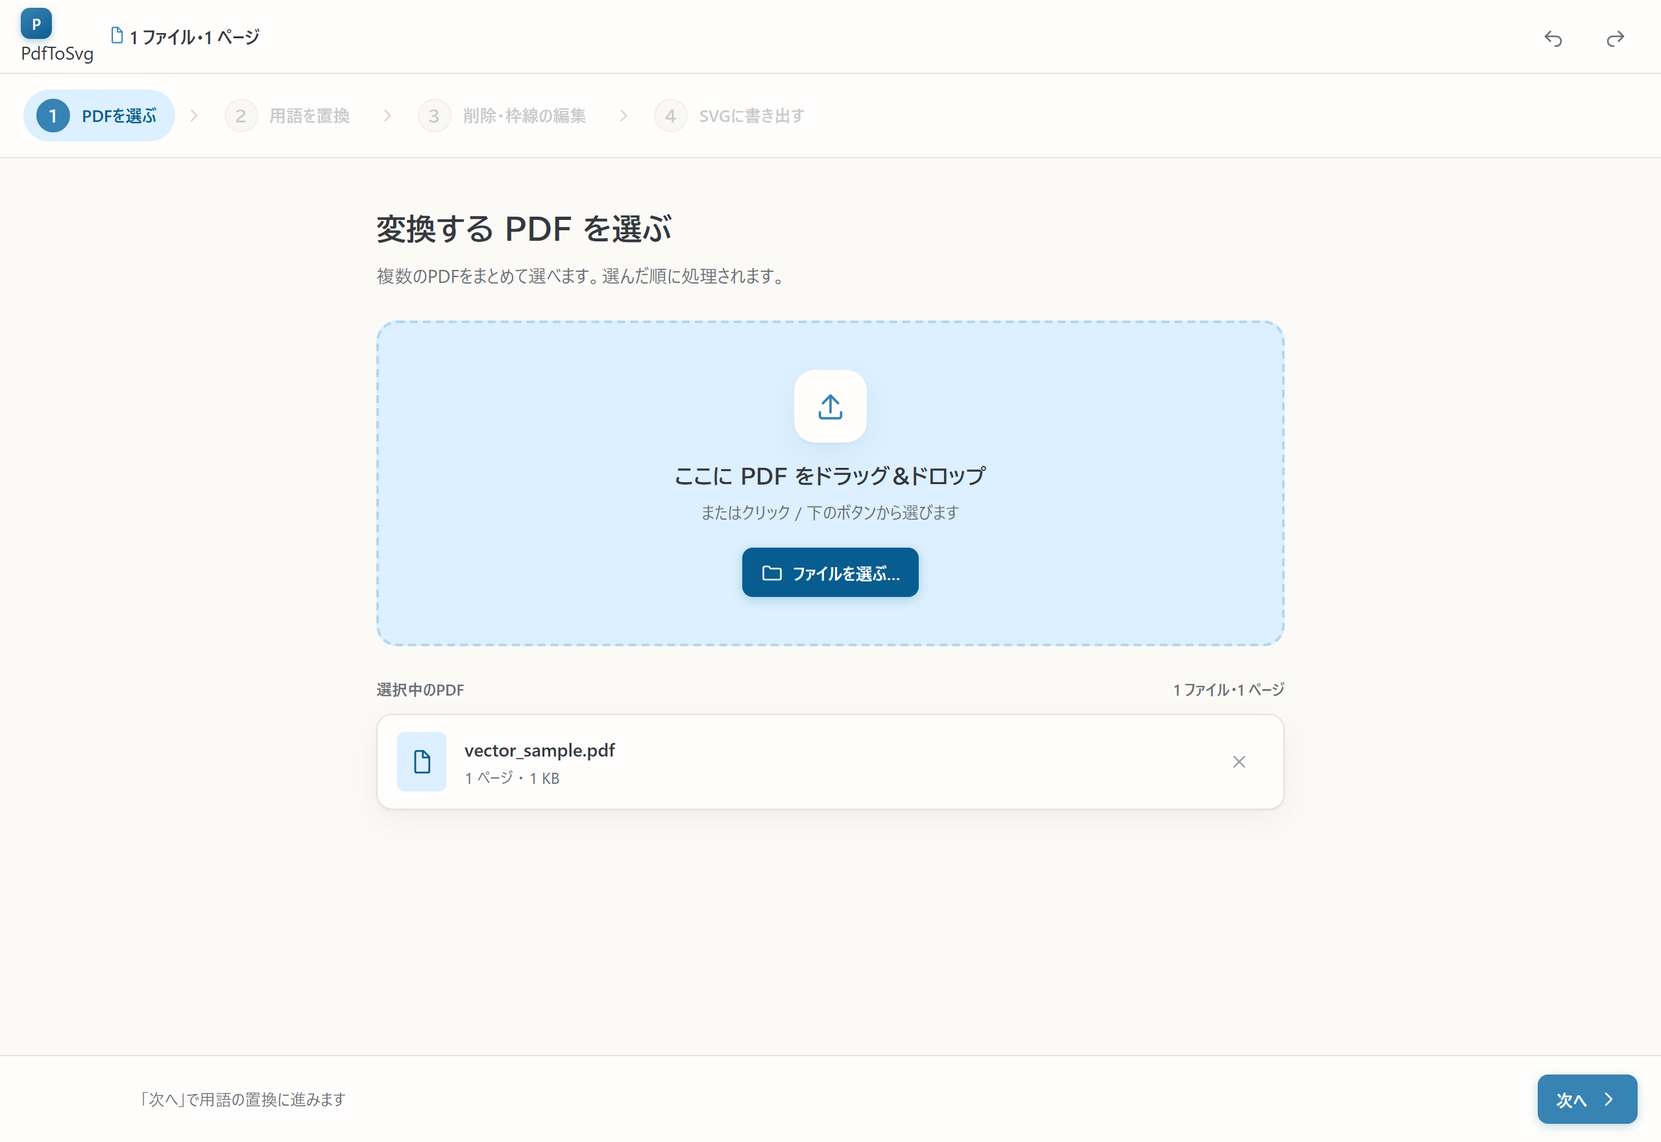
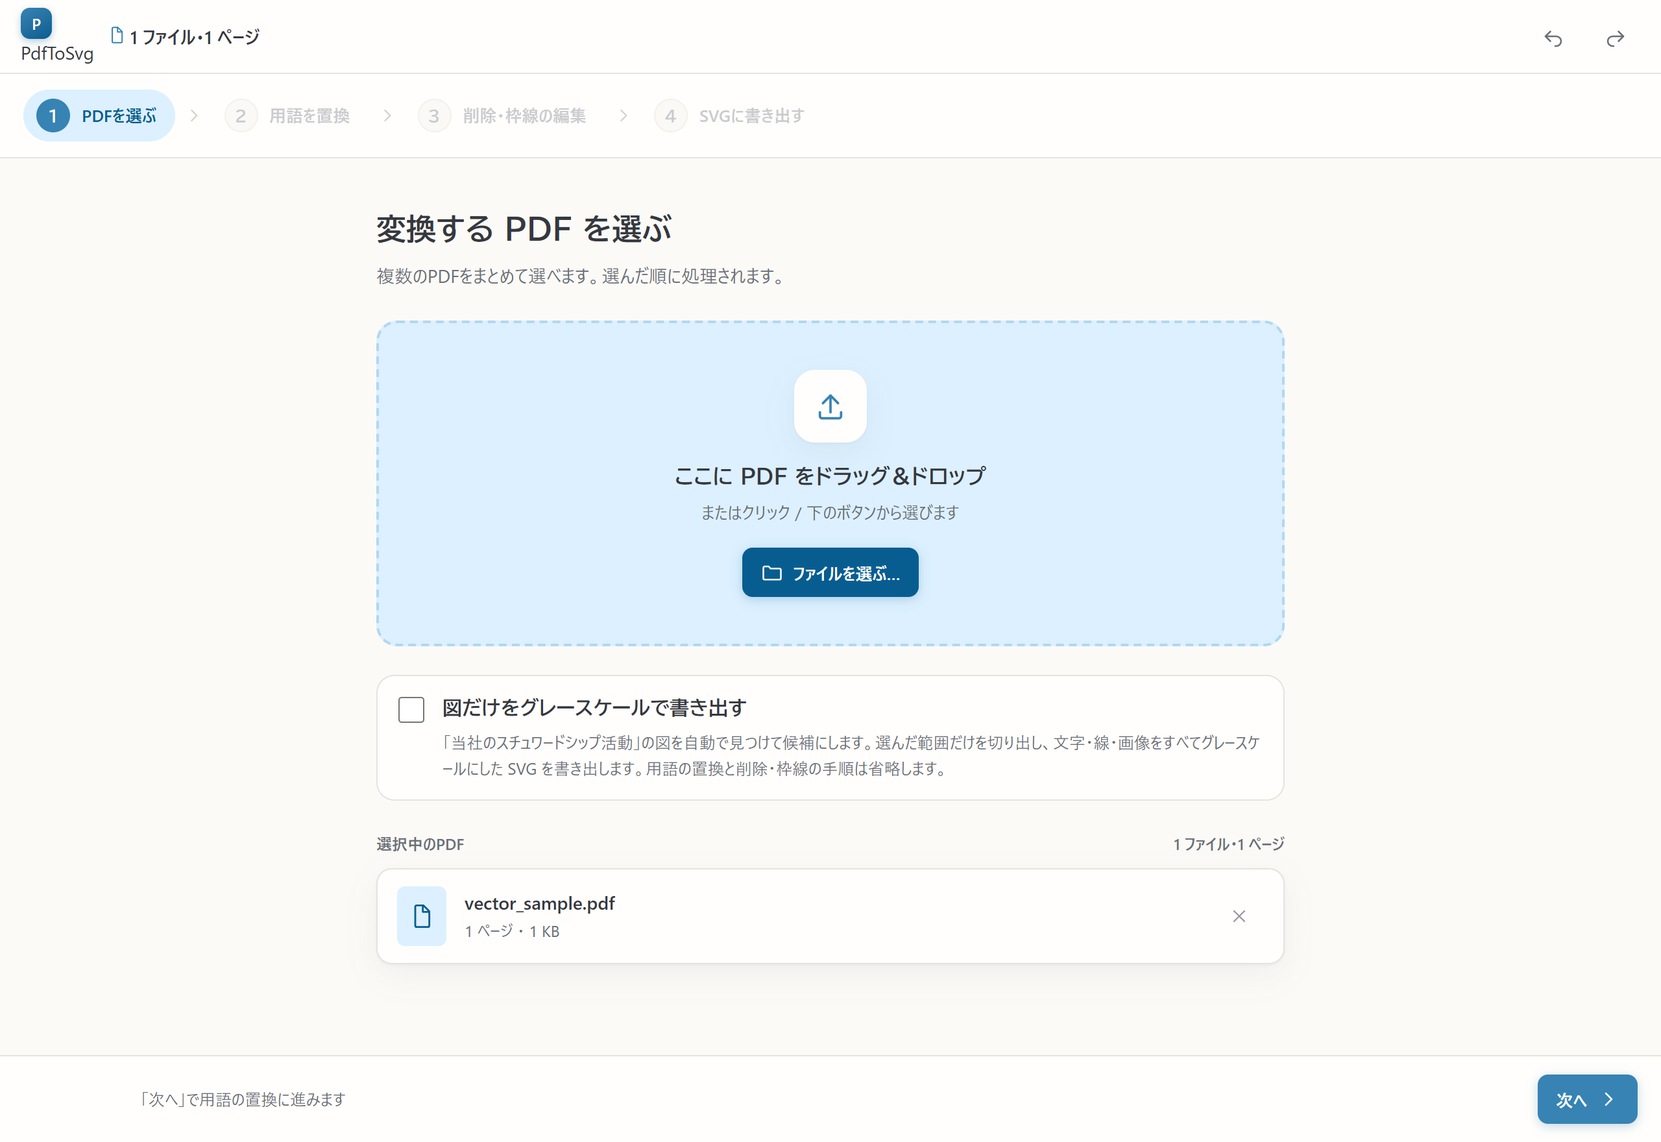
docs(pdf-to-svg): グレーモードの画面写真を撮影し操作手順書へ載せる
Claude-Session: https://claude.ai/code/session_01Atsc5YmN4J2ka1yLHquFKH

Changed region(s): [[0.2188, 0.5938, 0.75, 0.8438], [0.7188, 0.7188, 0.75, 0.75]]

diff --git a/docs/pdf-to-svg/_build/capture_screens.py b/docs/pdf-to-svg/_build/capture_screens.py
@@ -5,9 +5,17 @@
 60 秒アイドル watchdog を経由しないので撮影中にサーバが落ちない）、Playwright(chromium) で
 4 ステップの実画面を撮影して `docs/pdf-to-svg/images/` に PNG 出力する。
 
-- 入力 PDF: `tests/fixtures/vector_sample.pdf`（"Header A" / "Value 123"）
+- 入力 PDF (色モード): `test/fixtures/vector_sample.pdf`（"Header A" / "Value 123"）。
+  無ければ `test/conftest.py::vector_pdf` と同じ fitz コードでその場で生成する
+  （pytest を先に走らせる前提を作らないため）。
+- 入力 PDF (グレーモード): `test/test_pdftosvg_app_flow_e2e.py::stewardship_pdf` と同じ
+  fitz コードで一時ディレクトリへその場で生成する（コミットしない）。
 - 辞書は一時ファイルに作り「Header A → 見出し A」を投入（本番 data/dictionary.json は汚さない）
 - ファイル選択は File System Access API を無効化し、隠し <input type=file> 経由で set_files
+- 出力 PNG: 色モード = step1_select / step2_replace / step2b_dict / step2c_dict_share /
+  step2d_guard / step3_edit / step3c_region / step3b_border / step4_export。
+  グレーモード = step1b_gray_check（チェック ON + 手順 2・3 省略の注記）/
+  step4b_gray_figure（3 ペインの図の選択画面）/ step4c_gray_panel（右ペインの拡大）。
 """
 from __future__ import annotations
 
@@ -24,6 +32,8 @@ sys.path.insert(0, str(ROOT / "src"))
 # 共通撮影ヘルパ (docs/_build/shot.py)。launch/コンテキスト/解像度規約を集約。
 sys.path.insert(0, str(REPO / "docs" / "_build"))
 
+import fitz  # noqa: E402
+
 import shot as shot_helper  # noqa: E402
 from dictionary.store import DictionaryStore  # noqa: E402
 from web.rpc_methods import WebSession  # noqa: E402
@@ -32,11 +42,79 @@ from web.undo_stack import UndoStack  # noqa: E402
 
 OUT = REPO / "docs" / "pdf-to-svg" / "images"
 OUT.mkdir(parents=True, exist_ok=True)
-SAMPLE = ROOT / "tests" / "fixtures" / "vector_sample.pdf"
+# 実体は pdf-to-svg/test/fixtures/ (tests/ ではない)。pytest 未実行の環境でも撮影できるよう
+# 無ければ ensure_vector_sample() がその場で作る。
+SAMPLE = ROOT / "test" / "fixtures" / "vector_sample.pdf"
+
+
+def ensure_vector_sample() -> None:
+    """`SAMPLE` が無ければ `test/conftest.py::vector_pdf` と同じ fitz コードで生成する。
+    既に pytest 実行済みで存在する場合はそのまま使い回す（session フィクスチャの内容と
+    同一なので撮影結果に差は出ない）。"""
+    if SAMPLE.exists():
+        return
+    SAMPLE.parent.mkdir(parents=True, exist_ok=True)
+    doc = fitz.open()
+    page = doc.new_page(width=300, height=200)
+    page.insert_text((50, 50), "Header A", fontsize=14, color=(0, 0, 0))
+    page.insert_text((50, 80), "Value 123", fontsize=11, color=(0.2, 0.2, 0.8))
+    page.draw_line((40, 100), (260, 100), color=(0, 0, 0), width=1.5)
+    page.draw_rect(fitz.Rect(40, 120, 260, 170), color=(0, 0, 0), fill=(0.9, 0.9, 0.9), width=1)
+    doc.save(str(SAMPLE))
+    doc.close()
+
+
+def build_stewardship_pdf(tmpdir: str) -> pathlib.Path:
+    """`test_pdftosvg_app_flow_e2e.py::stewardship_pdf` と同じ fitz コードで、実 PDF を
+    模した合成 2 ページを一時ディレクトリへ生成する（コミットしない）。1 ページ目は図の
+    無い見出し・本文のみ、2 ページ目に図（見出し・本文・帯・曲線・ラベル・QR 枠）を置き、
+    グレーモードの全ページ検出→自動移動を見せる（図が最初のページではない構成）。"""
+    path = pathlib.Path(tmpdir) / "stewardship_sample.pdf"
+    doc = fitz.open()
+
+    page1 = doc.new_page(width=595, height=842)
+    page1.insert_text((43, 150), "（2）運用経過", fontname="japan", fontsize=11)
+    page1.insert_text(
+        (43, 175),
+        "当期のファンドは国内外の株式市場の上昇を背景に、基準価額は堅調に推移しました。",
+        fontname="japan", fontsize=8,
+    )
+
+    page2 = doc.new_page(width=595, height=842)
+    page2.insert_text((43, 150), "（3）当社のスチュワードシップ活動", fontname="japan", fontsize=11)
+    page2.insert_text(
+        (43, 175),
+        "当社は「責任ある機関投資家」として、エンゲージメント、議決権行使、投資の意思決定における"
+        "ESGの考慮を3つの柱として",
+        fontname="japan", fontsize=8,
+    )
+    page2.draw_rect(fitz.Rect(113, 249, 483, 284), color=None, fill=(0, 0.62, 0.71))
+    page2.insert_text((224, 275), "投資リターンの最大化", fontname="japan", fontsize=13, color=(1, 1, 1))
+    shape = page2.new_shape()
+    shape.draw_bezier((220, 330), (300, 300), (330, 480), (400, 490))
+    shape.finish(color=(0.8, 0.2, 0.3), width=6)
+    shape.commit()
+    page2.insert_text((85, 478), "エンゲージメント", fontname="japan", fontsize=9, color=(0.85, 0.55, 0.1))
+    page2.insert_text((430, 354), "議決権行使", fontname="japan", fontsize=9, color=(0.2, 0.6, 0.3))
+    page2.insert_text((104, 366), "におけるESGの考慮", fontname="japan", fontsize=9, color=(0.8, 0.2, 0.3))
+    page2.draw_rect(fitz.Rect(113, 526, 483, 596), color=None, fill=(0, 0.62, 0.71))
+    page2.insert_text(
+        (162, 574), "［フィデューシャリー・デューティーの実践］", fontname="japan", fontsize=9, color=(1, 1, 1),
+    )
+    page2.draw_rect(fitz.Rect(113, 600, 483, 650), color=(0, 0, 0), width=0.8)
+    page2.insert_text((190, 640), "https://www.smtam.jp/institutional/stewardship_initiatives/", fontsize=8)
+    page2.insert_text((43, 700), "（4）自社ESGスコアについて", fontname="japan", fontsize=11)
+
+    doc.save(str(path))
+    doc.close()
+    return path
 
 
 def start_server():
-    """一時辞書を仕込んだ WebSession でローカルサーバを起動し (server, url) を返す。"""
+    """一時辞書を仕込んだ WebSession でローカルサーバを起動し (server, url) を返す。
+    `url` には起動時発行のセッショントークンを `?token=` で載せる（`rpc.js` が
+    `window.location.search` から読むのはここだけなので、無いと非安全メソッドが
+    origin_guard に全拒否される）。"""
     tmpdir = tempfile.mkdtemp(prefix="pdftosvg-shots-")
     store = DictionaryStore(pathlib.Path(tmpdir) / "dictionary.json")
     store.add("Header A", "見出し A")  # ステップ2で実際の置換を見せるための種
@@ -44,7 +122,7 @@ def start_server():
     server = create_server(str(ROOT / "resources" / "web"), session)
     port = server.server_address[1]
     threading.Thread(target=server.serve_forever, daemon=True).start()
-    return server, f"http://127.0.0.1:{port}/"
+    return server, f"http://127.0.0.1:{port}/?token={server.guard_token}"
 
 
 def shot(page, name):
@@ -64,96 +142,157 @@ def skip_guard_if_present(page):
     return False
 
 
+def clear_session_files(page):
+    """サーバ側セッションに残っているファイルを rpc で 1 件ずつ外す。サーバは色モード撮影
+    (main) と共有しており `vector_sample.pdf` が読み込まれたままなので、グレーモード撮影の
+    前に空へ戻す（E2E `test_pdftosvg_app_flow_e2e.py::reset_session` と同じ手当て）。"""
+    page.evaluate("""async () => {
+        const w = window;
+        for (let i = 0; i < 20; i++) {
+            const st = await w.rpc("state");
+            if (!st.files.length) return;
+            await w.rpc("removeFile", { fileIndex: 0 });
+        }
+    }""")
+
+
+def capture_gray(browser, url, sample_pdf):
+    """グレーモード（「図だけをグレースケールで書き出す」）の撮影。色モードと同じサーバを
+    使い回すブラウザ新規ページで、チェック ON → ファイル選択 → 手順 4 の図の選択画面まで
+    進めて撮る。"""
+    with shot_helper.page_context(browser, 1280, 880, allowed_schemes=None) as page:
+        page.add_init_script(
+            "delete window.showOpenFilePicker;"
+            "delete window.showSaveFilePicker;"
+            "delete window.showDirectoryPicker;"
+        )
+        page.goto(url)
+        page.wait_for_selector("#btn-pick")
+        clear_session_files(page)
+
+        # ---- ステップ1: グレーモードのチェックを ON にしてから PDF を選ぶ ----
+        page.check("#chk-gray")
+        page.wait_for_selector("#gray-skipnote")  # 「手順 2・3 は省略されます」の注記
+        with page.expect_file_chooser() as fc:
+            page.click("#btn-pick")
+        fc.value.set_files(str(sample_pdf))
+        page.wait_for_selector("#file-cards .file-card", timeout=15000)
+        time.sleep(0.6)
+        shot(page, "step1b_gray_check.png")
+
+        # ---- ステップ4: 図の選択画面 (ON のため 2・3 は自動で飛ばされる) ----
+        page.click("#btn-next")
+        page.wait_for_selector('.screen[data-screen="4"].on', timeout=10000)
+        # 全ページ自動検出 + 最初に見つかったページへの自動移動が終わるのを、
+        # 非空虚な条件 (#exp-num が "1") と採用済み候補の出現で確認する。CSP
+        # (`default-src 'self'`) が `unsafe-eval` を禁じるため `wait_for_function` は
+        # 使えず、Playwright 自前のセレクタエンジンで完結する `:text-is()` で待つ。
+        page.wait_for_selector('#exp-num:text-is("1")', timeout=15000)
+        page.wait_for_selector("#fig-stage .fig-cand.sel", timeout=15000)
+        time.sleep(0.8)
+        shot(page, "step4b_gray_figure.png")
+
+        # ---- 右ペイン (採用した図の一覧・書き出し) の拡大 ----
+        page.locator("#export-center").screenshot(path=str(OUT / "step4c_gray_panel.png"))
+        print("  saved step4c_gray_panel.png")
+
+
 def main():
+    ensure_vector_sample()
     server, url = start_server()
     print("server:", url)
+    gray_tmpdir = tempfile.mkdtemp(prefix="pdftosvg-shots-gray-")
+    stewardship_pdf = build_stewardship_pdf(gray_tmpdir)
     try:
         # ローカル HTTP サーバ（start_server）の実画面を撮影するため http: の取得が要る。
         # allowed_schemes=None を明示し、意図的な素通しであることを示す。
-        with shot_helper.chromium() as browser, \
-                shot_helper.page_context(browser, 1280, 880, allowed_schemes=None) as page:
-            # File System Access API を消し、隠し <input type=file> フォールバックへ。
-            page.add_init_script(
-                "delete window.showOpenFilePicker;"
-                "delete window.showSaveFilePicker;"
-                "delete window.showDirectoryPicker;"
-            )
-            page.goto(url)
-            page.wait_for_selector("#btn-pick")
+        with shot_helper.chromium() as browser:
+            with shot_helper.page_context(browser, 1280, 880, allowed_schemes=None) as page:
+                # File System Access API を消し、隠し <input type=file> フォールバックへ。
+                page.add_init_script(
+                    "delete window.showOpenFilePicker;"
+                    "delete window.showSaveFilePicker;"
+                    "delete window.showDirectoryPicker;"
+                )
+                page.goto(url)
+                page.wait_for_selector("#btn-pick")
 
-            # ---- ステップ1: PDF を選ぶ ----
-            with page.expect_file_chooser() as fc:
-                page.click("#btn-pick")
-            fc.value.set_files(str(SAMPLE))
-            page.wait_for_selector("#file-cards .file-card", timeout=15000)
-            time.sleep(0.6)
-            shot(page, "step1_select.png")
+                # ---- ステップ1: PDF を選ぶ ----
+                with page.expect_file_chooser() as fc:
+                    page.click("#btn-pick")
+                fc.value.set_files(str(SAMPLE))
+                page.wait_for_selector("#file-cards .file-card", timeout=15000)
+                time.sleep(0.6)
+                shot(page, "step1_select.png")
 
-            # ---- ステップ2: 用語を置換（確認タブ）----
-            page.click("#btn-next")
-            page.wait_for_selector('.screen[data-screen="2"].on', timeout=10000)
-            page.wait_for_selector("#doc-master svg", timeout=15000)
-            time.sleep(1.0)
-            shot(page, "step2_replace.png")
+                # ---- ステップ2: 用語を置換（確認タブ）----
+                page.click("#btn-next")
+                page.wait_for_selector('.screen[data-screen="2"].on', timeout=10000)
+                page.wait_for_selector("#doc-master svg", timeout=15000)
+                time.sleep(1.0)
+                shot(page, "step2_replace.png")
 
-            # ---- ステップ2(辞書タブ) ----
-            page.click('[data-tab="dict"]')
-            page.wait_for_selector('[data-pane="dict"].on', timeout=5000)
-            time.sleep(0.5)
-            shot(page, "step2b_dict.png")
-            # 辞書共有ボタン (JSON書き出し/読み込み) の拡大。8章「辞書の共有」用。
-            page.locator('[data-pane="dict"] .panel-foot').screenshot(
-                path=str(OUT / "step2c_dict_share.png")
-            )
-            print("  saved step2c_dict_share.png")
-            page.click('[data-tab="confirm"]')  # 確認タブに戻す
+                # ---- ステップ2(辞書タブ) ----
+                page.click('[data-tab="dict"]')
+                page.wait_for_selector('[data-pane="dict"].on', timeout=5000)
+                time.sleep(0.5)
+                shot(page, "step2b_dict.png")
+                # 辞書共有ボタン (JSON書き出し/読み込み) の拡大。8章「辞書の共有」用。
+                page.locator('[data-pane="dict"] .panel-foot').screenshot(
+                    path=str(OUT / "step2c_dict_share.png")
+                )
+                print("  saved step2c_dict_share.png")
+                page.click('[data-tab="confirm"]')  # 確認タブに戻す
 
-            # ---- 未確認ガードバー (ステップ2で未確認のまま「次へ」) ----
-            page.click("#btn-next")
-            if page.is_visible("#guard"):
-                time.sleep(0.4)
-                shot(page, "step2d_guard.png")
-            skip_guard_if_present(page)
+                # ---- 未確認ガードバー (ステップ2で未確認のまま「次へ」) ----
+                page.click("#btn-next")
+                if page.is_visible("#guard"):
+                    time.sleep(0.4)
+                    shot(page, "step2d_guard.png")
+                skip_guard_if_present(page)
 
-            # ---- ステップ3: 削除・枠線の編集 ----
-            page.wait_for_selector('.screen[data-screen="3"].on', timeout=10000)
-            page.wait_for_selector("#trim-stage svg", timeout=15000)
-            time.sleep(1.0)
-            shot(page, "step3_edit.png")
+                # ---- ステップ3: 削除・枠線の編集 ----
+                page.wait_for_selector('.screen[data-screen="3"].on', timeout=10000)
+                page.wait_for_selector("#trim-stage svg", timeout=15000)
+                time.sleep(1.0)
+                shot(page, "step3_edit.png")
 
-            # ---- ステップ3: 範囲削除 (ドラッグ中のラバーバンド) ----
-            # 先に範囲削除を撮る (枠線を先に撮って Ctrl+Z すると、取り消した枠線が
-            # 「削除した要素」一覧に残骸として写り込むため)。
-            stage = page.locator("#trim-stage svg").bounding_box()
-            page.click('[data-tool="crop"]')
-            page.mouse.move(stage["x"] + stage["width"] * 0.2, stage["y"] + stage["height"] * 0.15)
-            page.mouse.down()
-            page.mouse.move(stage["x"] + stage["width"] * 0.7, stage["y"] + stage["height"] * 0.5, steps=8)
-            time.sleep(0.3)
-            shot(page, "step3c_region.png")
-            page.mouse.up()
-            time.sleep(0.5)
-            page.keyboard.press("Control+z")  # 範囲削除を取り消す (要素が全て戻る)
-            time.sleep(0.5)
+                # ---- ステップ3: 範囲削除 (ドラッグ中のラバーバンド) ----
+                # 先に範囲削除を撮る (枠線を先に撮って Ctrl+Z すると、取り消した枠線が
+                # 「削除した要素」一覧に残骸として写り込むため)。
+                stage = page.locator("#trim-stage svg").bounding_box()
+                page.click('[data-tool="crop"]')
+                page.mouse.move(stage["x"] + stage["width"] * 0.2, stage["y"] + stage["height"] * 0.15)
+                page.mouse.down()
+                page.mouse.move(stage["x"] + stage["width"] * 0.7, stage["y"] + stage["height"] * 0.5, steps=8)
+                time.sleep(0.3)
+                shot(page, "step3c_region.png")
+                page.mouse.up()
+                time.sleep(0.5)
+                page.keyboard.press("Control+z")  # 範囲削除を取り消す (要素が全て戻る)
+                time.sleep(0.5)
 
-            # ---- ステップ3: 枠線の追加 (ドラッグで矩形を引いた直後) ----
-            page.click('[data-tool="border"]')
-            page.mouse.move(stage["x"] + stage["width"] * 0.25, stage["y"] + stage["height"] * 0.2)
-            page.mouse.down()
-            page.mouse.move(stage["x"] + stage["width"] * 0.75, stage["y"] + stage["height"] * 0.45, steps=8)
-            page.mouse.up()
-            time.sleep(0.8)
-            shot(page, "step3b_border.png")
-            page.keyboard.press("Control+z")  # 枠線を取り消す
-            time.sleep(0.5)
-            page.click('[data-tool="select"]')
+                # ---- ステップ3: 枠線の追加 (ドラッグで矩形を引いた直後) ----
+                page.click('[data-tool="border"]')
+                page.mouse.move(stage["x"] + stage["width"] * 0.25, stage["y"] + stage["height"] * 0.2)
+                page.mouse.down()
+                page.mouse.move(stage["x"] + stage["width"] * 0.75, stage["y"] + stage["height"] * 0.45, steps=8)
+                page.mouse.up()
+                time.sleep(0.8)
+                shot(page, "step3b_border.png")
+                page.keyboard.press("Control+z")  # 枠線を取り消す
+                time.sleep(0.5)
+                page.click('[data-tool="select"]')
 
-            # ---- ステップ4: SVG に書き出す ----
-            page.click("#btn-next")
-            skip_guard_if_present(page)
-            page.wait_for_selector('.screen[data-screen="4"].on', timeout=10000)
-            time.sleep(0.6)
-            shot(page, "step4_export.png")
+                # ---- ステップ4: SVG に書き出す ----
+                page.click("#btn-next")
+                skip_guard_if_present(page)
+                page.wait_for_selector('.screen[data-screen="4"].on', timeout=10000)
+                time.sleep(0.6)
+                shot(page, "step4_export.png")
+
+            # ---- グレーモード (別ページで同じサーバ・ブラウザを使い回す) ----
+            capture_gray(browser, url, stewardship_pdf)
     finally:
         server.shutdown()
         server.server_close()

diff --git a/docs/pdf-to-svg/src/操作手順書.md b/docs/pdf-to-svg/src/操作手順書.md
@@ -76,6 +76,8 @@ audience: guide
 
 運用報告書に載っている「当社のスチュワードシップ活動」の図だけを切り出し、色をすべて灰色にした SVG がほしいときは、この専用モードを使います。
 
+![ステップ 1：「図だけをグレースケールで書き出す」にチェックを付けた画面](images/step1b_gray_check.png)
+
 1. ドロップゾーンのすぐ下にある **「図だけをグレースケールで書き出す」** のチェックボックスを ON にします（PDF を選ぶ前でも後でもかまいません）。
 2. ON のまま **「次へ」** を押すと、ステップ 2「言葉を置き換えて確認する」とステップ 3「いらない部分を消す・枠線を足す」は自動で省略され、ステップ 4「SVG として保存する」に直接進みます。
 3. このモードで見つけて切り出せるのは「当社のスチュワードシップ活動」の図だけです。それ以外の図・表を切り出したいときはチェックを OFF にし、通常の手順（4〜6 章）をお使いください。
@@ -195,7 +197,7 @@ audience: guide
 
 ステップ 1 で「図だけをグレースケールで書き出す」にチェックを付けて **「次へ」** を押すと、ステップ 4 の画面が図の選択画面に変わります。
 
-（画面写真は後日差し替え）
+![ステップ 4：図の選択画面（左：ページ一覧、中央：見つかった図、右：採用した図と書き出し）](images/step4b_gray_figure.png)
 
 - 「次へ」を押した直後、アプリが**すべてのページを自動で調べます**。調べている間は画面下に「図を探しています 3/10」のように進捗が表示されます。調べ終わると、図が見つかった**最初のページが自動で開き**、見つかった図はその時点ですでに採用済みになっています。
 - 画面左に各ページの一覧（レール）が並びます。図が見つかったページには印が付き、クリックするとそのページに移動します。
